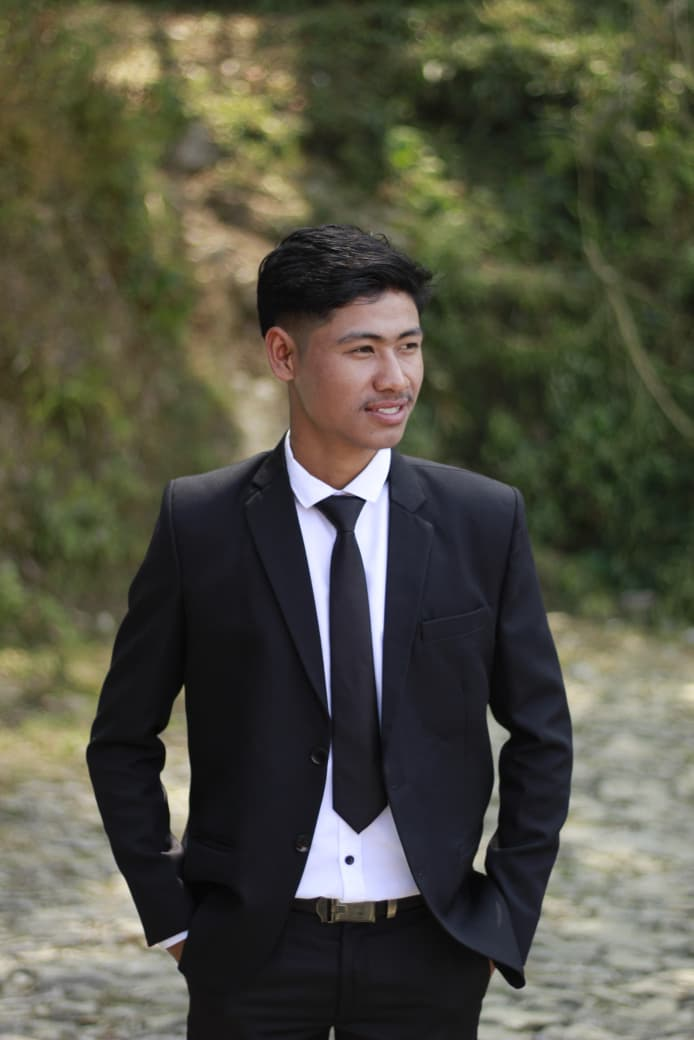
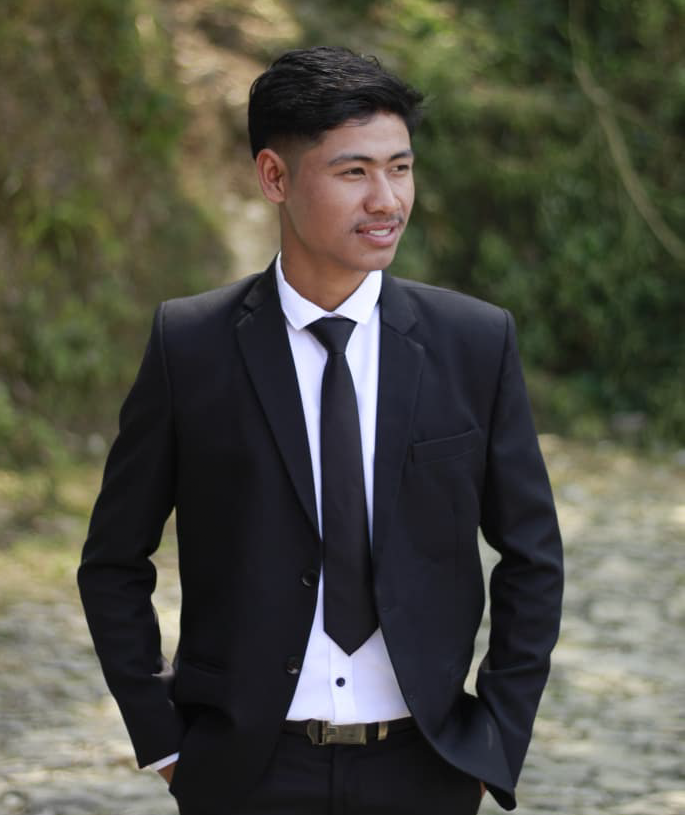
fixed the contact

diff --git a/src/components/Contact.jsx b/src/components/Contact.jsx
@@ -22,34 +22,33 @@ export default function Contact() {
 
     setStatus({ state: "loading", msg: "" });
 
-    // If you have a backend, replace the URL below.
-    // For now, we simulate a successful send (remove the timeout and use real fetch when backend is ready).
-    const backendUrl = process.env.REACT_APP_BACKEND_URL;
+    try {
+      // Sending data to Web3Forms
+      const res = await fetch("https://api.web3forms.com/submit", {
+        method: "POST",
+        headers: {
+          "Content-Type": "application/json",
+          Accept: "application/json",
+        },
+        body: JSON.stringify({
+          // 👇 REPLACE WITH YOUR ACTUAL WEB3FORMS ACCESS KEY 👇
+          access_key: "4d1858e8-98ec-4975-8b12-1ba1cf1e3ad5",
+          name: form.name,
+          email: form.email,
+          message: form.message,
+        }),
+      });
 
-    if (backendUrl) {
-      try {
-        const res = await fetch(`${backendUrl}/api/contact`, {
-          method: "POST",
-          headers: { "Content-Type": "application/json" },
-          body: JSON.stringify(form),
-        });
-        if (!res.ok) {
-          const errData = await res.json().catch(() => ({}));
-          throw new Error(errData.detail || "Failed to send.");
-        }
-        setStatus({ state: "ok", msg: "Message sent. I'll get back to you soon." });
-        setForm({ name: "", email: "", message: "" });
-      } catch (err) {
-        setStatus({ state: "error", msg: err.message || "Failed to send. Please try again." });
+      const data = await res.json();
+
+      if (data.success) {
+        setStatus({ state: "ok", msg: "Message sent! I'll get back to you soon." });
+        setForm({ name: "", email: "", message: "" }); // Clear the form
+      } else {
+        setStatus({ state: "error", msg: data.message || "Failed to send. Please try again." });
       }
-    } else {
-      // No backend configured — open mailto as fallback
-      const mailto = `mailto:abnel@portfolio.dev?subject=Portfolio%20Inquiry%20from%20${encodeURIComponent(
-        form.name
-      )}&body=${encodeURIComponent(form.message)}`;
-      window.open(mailto, "_blank");
-      setStatus({ state: "ok", msg: "Opening your email client to send the message." });
-      setForm({ name: "", email: "", message: "" });
+    } catch (err) {
+      setStatus({ state: "error", msg: "Network error. Please try again later." });
     }
   };
 
